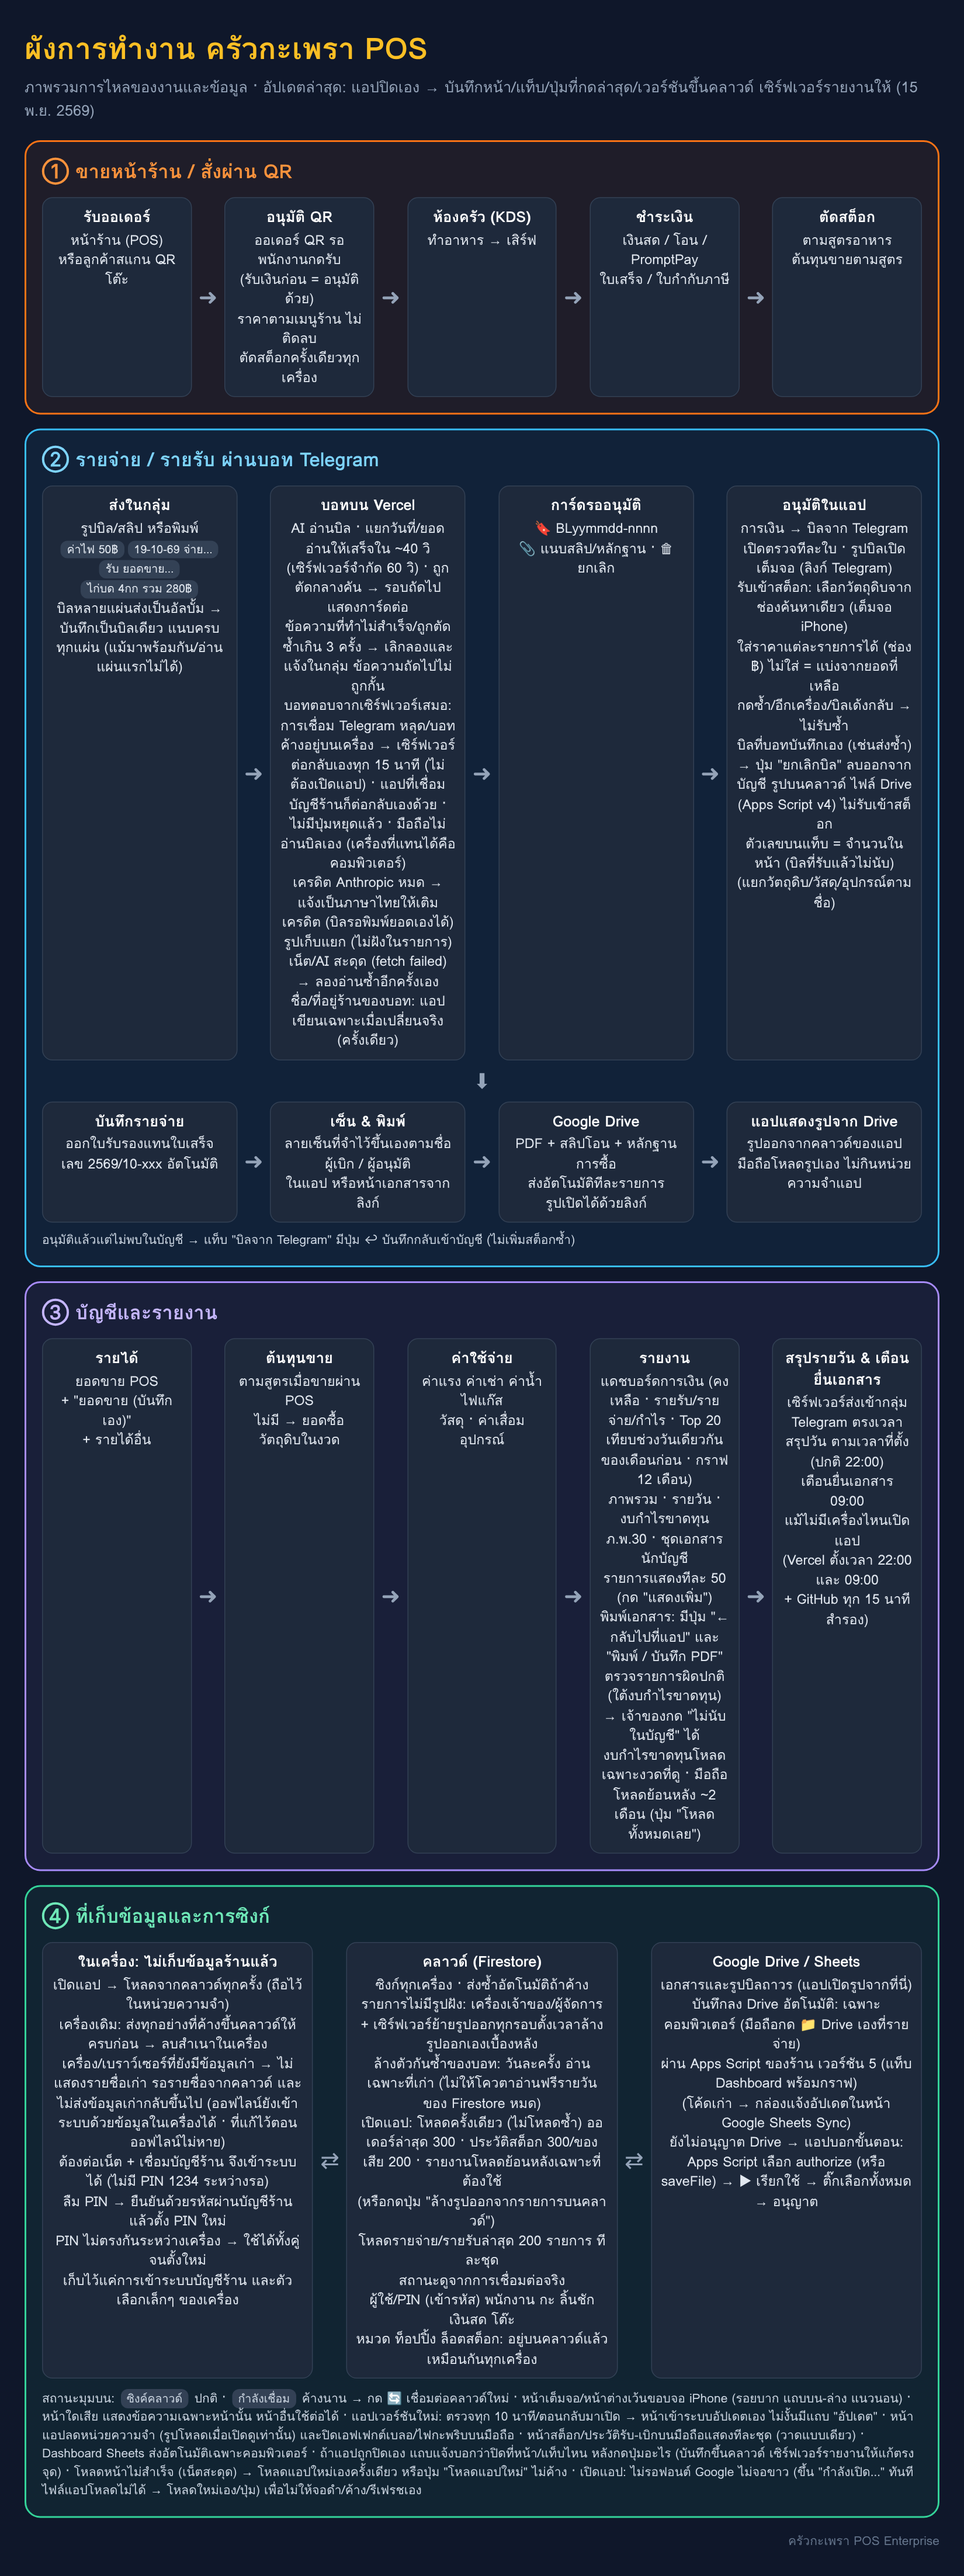
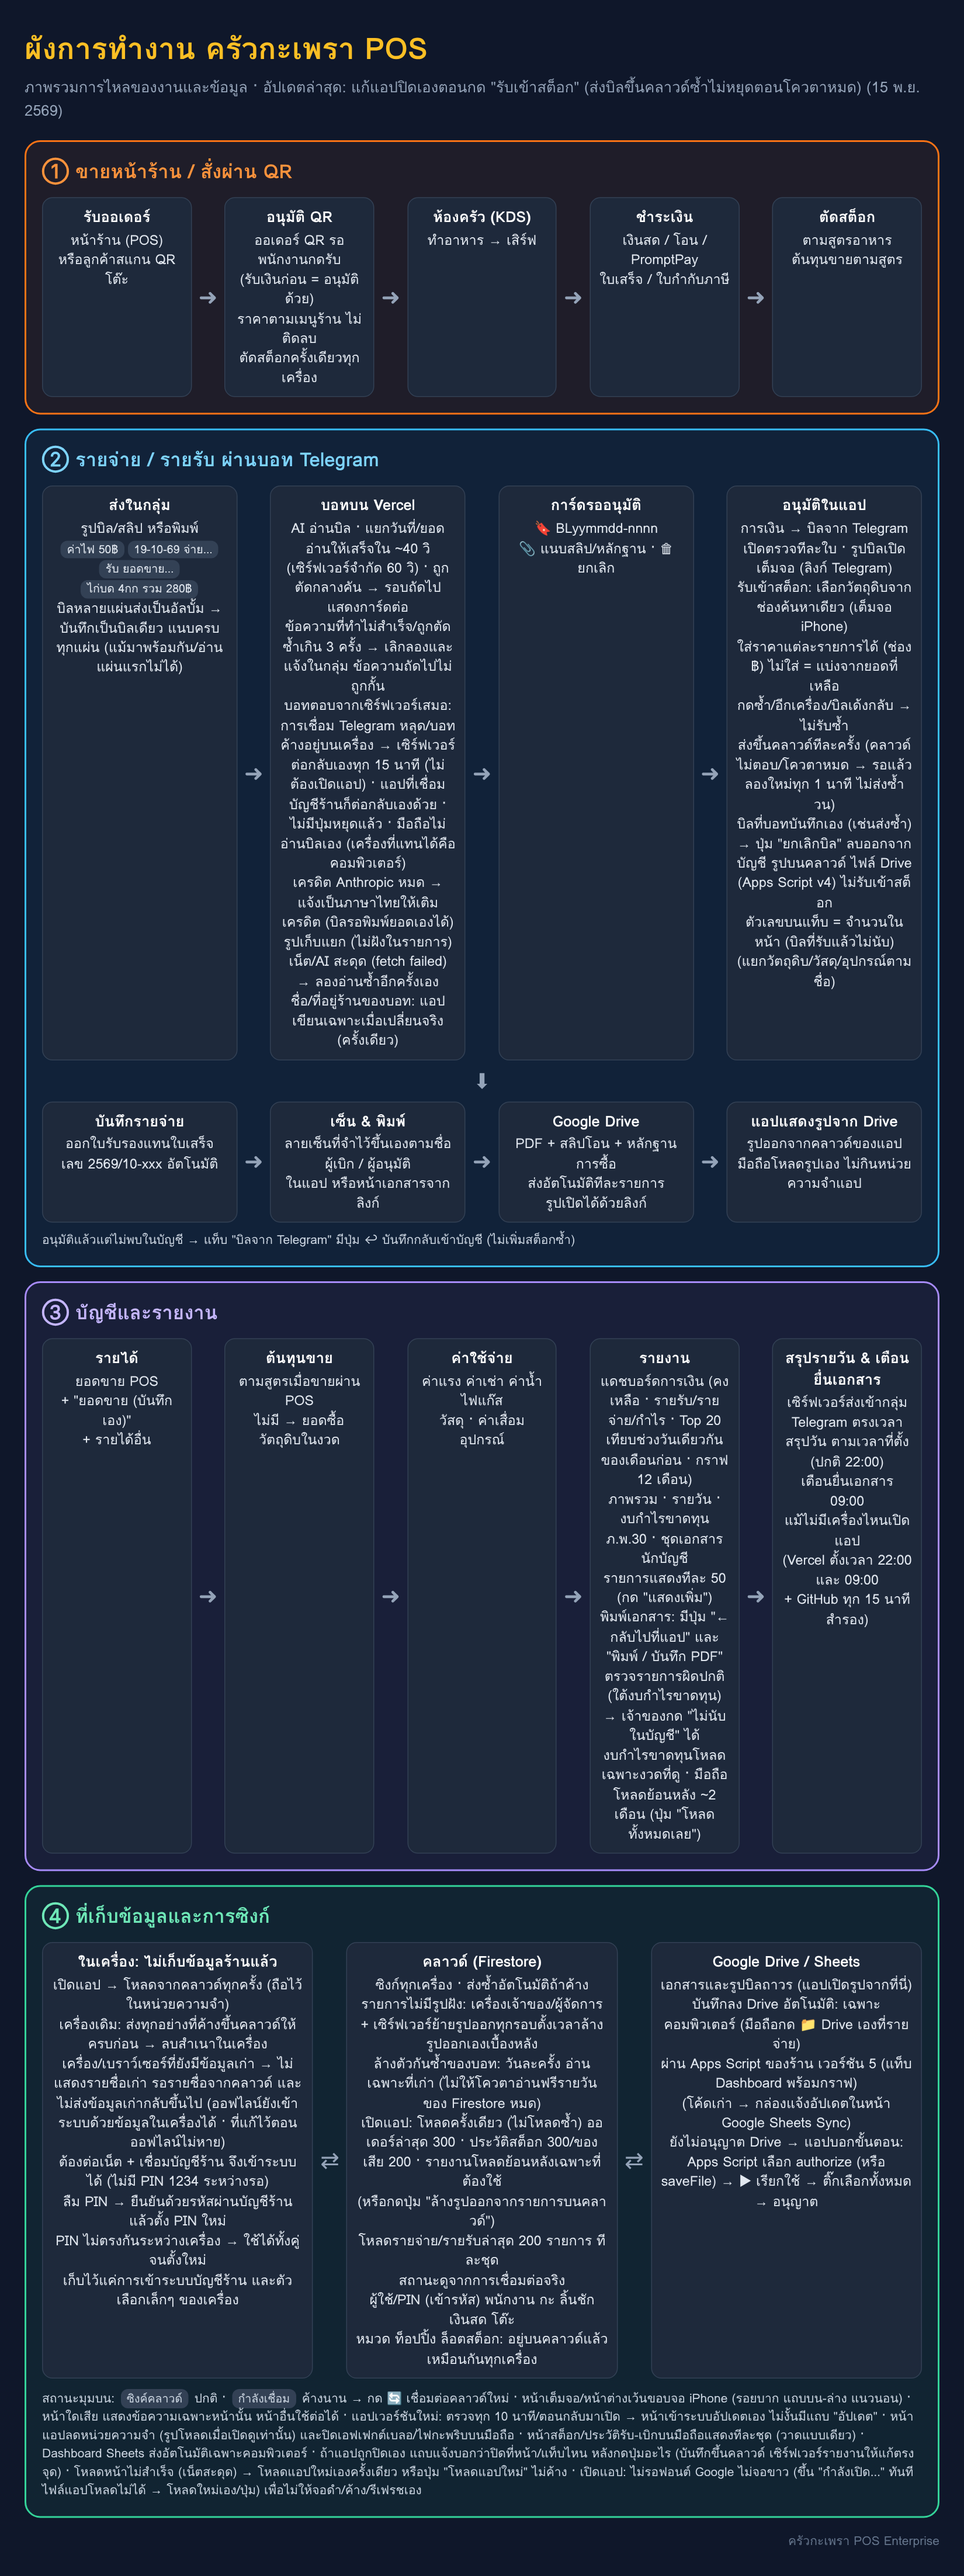
Shared records are not sent again on every copy of their own save (the iPhone closed at 'รับเข้าสต็อก')
useKeyedList sent its pending records again on every copy of the
document it heard, including the copy its own save shows at once before
the cloud confirms it. With the cloud answering, that ended after a few
rounds (each an extra billed write); with the daily quota used up it
never did: each round queued another save of the bill and the phone ran
out of memory right after 'รับเข้าสต็อก'. One save at a time now, none
for the device's own unconfirmed copy, and a refused save is tried again
once a minute.

Claude-Session: https://claude.ai/code/session_01Gq3UvYW4wv3hsVCXoh5wxy

Changed region(s): [[0.7727, 0.2797, 0.9582, 0.3729]]

diff --git a/docs/workflow/flow.html b/docs/workflow/flow.html
@@ -17,7 +17,7 @@ h1{margin:0 0 4px;font-size:34px;color:#fbbf24}.sub{color:#94a3b8;font-size:17px
 .foot{color:#64748b;font-size:14px;margin-top:6px;text-align:right}
 </style></head><body>
 <h1>ผังการทำงาน ครัวกะเพรา POS</h1>
-<div class="sub">ภาพรวมการไหลของงานและข้อมูล · อัปเดตล่าสุด: แอปปิดเอง → บันทึกหน้า/แท็บ/ปุ่มที่กดล่าสุด/เวอร์ชันขึ้นคลาวด์ เซิร์ฟเวอร์รายงานให้ (15 พ.ย. 2569)</div>
+<div class="sub">ภาพรวมการไหลของงานและข้อมูล · อัปเดตล่าสุด: แก้แอปปิดเองตอนกด "รับเข้าสต็อก" (ส่งบิลขึ้นคลาวด์ซ้ำไม่หยุดตอนโควตาหมด) (15 พ.ย. 2569)</div>
 
 <div class="lane pos"><h2>① ขายหน้าร้าน / สั่งผ่าน QR</h2>
 <div class="row">
@@ -33,7 +33,7 @@ h1{margin:0 0 4px;font-size:34px;color:#fbbf24}.sub{color:#94a3b8;font-size:17px
 <div class="box"><b>ส่งในกลุ่ม</b>รูปบิล/สลิป หรือพิมพ์<br><span class="tag">ค่าไฟ 50฿</span><span class="tag">19-10-69 จ่าย…</span><span class="tag">รับ ยอดขาย…</span><span class="tag">ไก่บด 4กก รวม 280฿</span><br>บิลหลายแผ่นส่งเป็นอัลบั้ม → บันทึกเป็นบิลเดียว แนบครบทุกแผ่น (แม้มาพร้อมกัน/อ่านแผ่นแรกไม่ได้)</div><div class="ar">➜</div>
 <div class="box"><b>บอทบน Vercel</b>AI อ่านบิล · แยกวันที่/ยอด<br>อ่านให้เสร็จใน ~40 วิ (เซิร์ฟเวอร์จำกัด 60 วิ) · ถูกตัดกลางคัน → รอบถัดไปแสดงการ์ดต่อ<br>ข้อความที่ทำไม่สำเร็จ/ถูกตัดซ้ำเกิน 3 ครั้ง → เลิกลองและแจ้งในกลุ่ม ข้อความถัดไปไม่ถูกกั้น<br>บอทตอบจากเซิร์ฟเวอร์เสมอ: การเชื่อม Telegram หลุด/บอทค้างอยู่บนเครื่อง → เซิร์ฟเวอร์ต่อกลับเองทุก 15 นาที (ไม่ต้องเปิดแอป) · แอปที่เชื่อมบัญชีร้านก็ต่อกลับเองด้วย · ไม่มีปุ่มหยุดแล้ว · มือถือไม่อ่านบิลเอง (เครื่องที่แทนได้คือคอมพิวเตอร์)<br>เครดิต Anthropic หมด → แจ้งเป็นภาษาไทยให้เติมเครดิต (บิลรอพิมพ์ยอดเองได้)<br>รูปเก็บแยก (ไม่ฝังในรายการ)<br>เน็ต/AI สะดุด (fetch failed) → ลองอ่านซ้ำอีกครั้งเอง<br>ชื่อ/ที่อยู่ร้านของบอท: แอปเขียนเฉพาะเมื่อเปลี่ยนจริง (ครั้งเดียว)</div><div class="ar">➜</div>
 <div class="box"><b>การ์ดรออนุมัติ</b>🔖 BLyymmdd-nnnn<br>📎 แนบสลิป/หลักฐาน · 🗑 ยกเลิก</div><div class="ar">➜</div>
-<div class="box"><b>อนุมัติในแอป</b>การเงิน → บิลจาก Telegram<br>เปิดตรวจทีละใบ · รูปบิลเปิดเต็มจอ (ลิงก์ Telegram)<br>รับเข้าสต็อก: เลือกวัตถุดิบจากช่องค้นหาเดียว (เต็มจอ iPhone)<br>ใส่ราคาแต่ละรายการได้ (ช่อง ฿) ไม่ใส่ = แบ่งจากยอดที่เหลือ<br>กดซ้ำ/อีกเครื่อง/บิลเด้งกลับ → ไม่รับซ้ำ<br>บิลที่บอทบันทึกเอง (เช่นส่งซ้ำ) → ปุ่ม "ยกเลิกบิล" ลบออกจากบัญชี รูปบนคลาวด์ ไฟล์ Drive (Apps Script v4) ไม่รับเข้าสต็อก<br>ตัวเลขบนแท็บ = จำนวนในหน้า (บิลที่รับแล้วไม่นับ)<br>(แยกวัตถุดิบ/วัสดุ/อุปกรณ์ตามชื่อ)</div>
+<div class="box"><b>อนุมัติในแอป</b>การเงิน → บิลจาก Telegram<br>เปิดตรวจทีละใบ · รูปบิลเปิดเต็มจอ (ลิงก์ Telegram)<br>รับเข้าสต็อก: เลือกวัตถุดิบจากช่องค้นหาเดียว (เต็มจอ iPhone)<br>ใส่ราคาแต่ละรายการได้ (ช่อง ฿) ไม่ใส่ = แบ่งจากยอดที่เหลือ<br>กดซ้ำ/อีกเครื่อง/บิลเด้งกลับ → ไม่รับซ้ำ<br>ส่งขึ้นคลาวด์ทีละครั้ง (คลาวด์ไม่ตอบ/โควตาหมด → รอแล้วลองใหม่ทุก 1 นาที ไม่ส่งซ้ำวน)<br>บิลที่บอทบันทึกเอง (เช่นส่งซ้ำ) → ปุ่ม "ยกเลิกบิล" ลบออกจากบัญชี รูปบนคลาวด์ ไฟล์ Drive (Apps Script v4) ไม่รับเข้าสต็อก<br>ตัวเลขบนแท็บ = จำนวนในหน้า (บิลที่รับแล้วไม่นับ)<br>(แยกวัตถุดิบ/วัสดุ/อุปกรณ์ตามชื่อ)</div>
 </div>
 <div class="down">⬇</div>
 <div class="row">

diff --git a/src/hooks/useKeyedList.ts b/src/hooks/useKeyedList.ts
@@ -93,15 +93,46 @@ export function useKeyedList<T extends { id: string }>(
     };
   }, [localKey]);
 
+  /**
+   * A save on its way, and when a refused one may be tried again. Each save shows up at once as a
+   * new copy of the document (before the cloud confirms it), and every copy used to send the
+   * pending records again: while the cloud did not answer (the daily quota used up) that repeated
+   * without end, each time queueing another save, until the phone ran out of memory
+   */
+  const flushing = useRef(false);
+  const retryAfter = useRef(0);
+  const flushAgain = useRef(false);
   /** Send the records changed here; ids stay pending until the cloud accepts them */
   const flush = async (ids: Set<string>, extraPut: T[] = [], dropLegacy = false) => {
     if (!branchId || !isFirebaseAvailable()) return;
+    if (flushing.current) {
+      // Sent after the one on its way (still pending until then)
+      flushAgain.current = true;
+      return;
+    }
+    flushing.current = true;
+    try {
+      await flushNow(ids, extraPut, dropLegacy);
+    } finally {
+      flushing.current = false;
+    }
+    if (flushAgain.current && retryAfter.current === 0) {
+      flushAgain.current = false;
+      const left = readPending();
+      if (left.size > 0) void flushRef.current(left);
+    }
+  };
+  const flushNow = async (ids: Set<string>, extraPut: T[], dropLegacy: boolean) => {
     const byId = new Map(itemsRef.current.map(i => [i.id, i]));
     const raw = [...extraPut.filter(i => !ids.has(i.id)), ...[...ids].map(id => byId.get(id)).filter((i): i is T => !!i)];
     const put = raw.map(forCloud);
     const removed = [...ids].filter(id => !byId.has(id));
     const ok = await saveKeyedRecords(branchId, cloudKey, put, removed, dropLegacy);
-    if (!ok) return;
+    if (!ok) {
+      retryAfter.current = Date.now() + 60_000;
+      return;
+    }
+    retryAfter.current = 0;
     const still = readPending();
     // A record changed again while this save was on its way stays pending
     const sent = new Map(raw.map(p => [p.id, JSON.stringify(p)]));
@@ -114,7 +145,7 @@ export function useKeyedList<T extends { id: string }>(
 
   useEffect(() => {
     if (!branchId || !isFirebaseAvailable()) return;
-    const unsub = subscribeToBranchDoc(branchId, cloudKey, data => {
+    const unsub = subscribeToBranchDoc(branchId, cloudKey, (data, _fromCache, pendingWrites) => {
       const pending = readPending();
       const local = new Map(itemsRef.current.map(i => [i.id, i]));
       if (!data) {
@@ -135,17 +166,26 @@ export function useKeyedList<T extends { id: string }>(
         // Move the old whole-list copy into per-record fields
         const inById = new Set(Object.keys((data as { byId?: object }).byId || {}));
         flushRef.current(pending, next.filter(i => !inById.has(i.id)), true);
-      } else if (pending.size > 0) {
+      } else if (pending.size > 0 && !pendingWrites && Date.now() >= retryAfter.current) {
+        // Left from an earlier visit or a refused save (not this device's own save on its way)
         flushRef.current(pending);
       }
     });
     const onOnline = () => {
+      retryAfter.current = 0;
       const pending = readPending();
       if (pending.size > 0) flushRef.current(pending);
     };
     window.addEventListener('online', onOnline);
+    // A refused save is tried again once a minute (not on every copy of the document)
+    const retry = setInterval(() => {
+      if (!retryAfter.current || Date.now() < retryAfter.current) return;
+      const pending = readPending();
+      if (pending.size > 0) flushRef.current(pending);
+    }, 60_000);
     return () => {
       unsub();
+      clearInterval(retry);
       window.removeEventListener('online', onOnline);
     };
     // eslint-disable-next-line react-hooks/exhaustive-deps

diff --git a/src/services/firebaseService.ts b/src/services/firebaseService.ts
@@ -2029,13 +2029,16 @@ export async function syncSettingsToFirestore(
 export function subscribeToBranchDoc(
   branchId: string,
   key: string,
-  /** fromCache: the answer is this device's memory, not the cloud's (e.g. offline) */
-  onData: (data: DocumentData | null, fromCache?: boolean) => void
+  /**
+   * fromCache: the answer is this device's memory, not the cloud's (e.g. offline).
+   * pendingWrites: it includes this device's own save the cloud has not confirmed yet
+   */
+  onData: (data: DocumentData | null, fromCache?: boolean, pendingWrites?: boolean) => void
 ): () => void {
   if (!dbInstance) return () => {};
   return onSnapshot(
     doc(dbInstance, 'branches', branchId, 'config', key),
-    snap => onData(snap.exists() ? snap.data() : null, snap.metadata.fromCache),
+    snap => onData(snap.exists() ? snap.data() : null, snap.metadata.fromCache, snap.metadata.hasPendingWrites),
     err => console.warn(`[Firebase Service] Shared document ${key} listener error:`, err)
   );
 }
